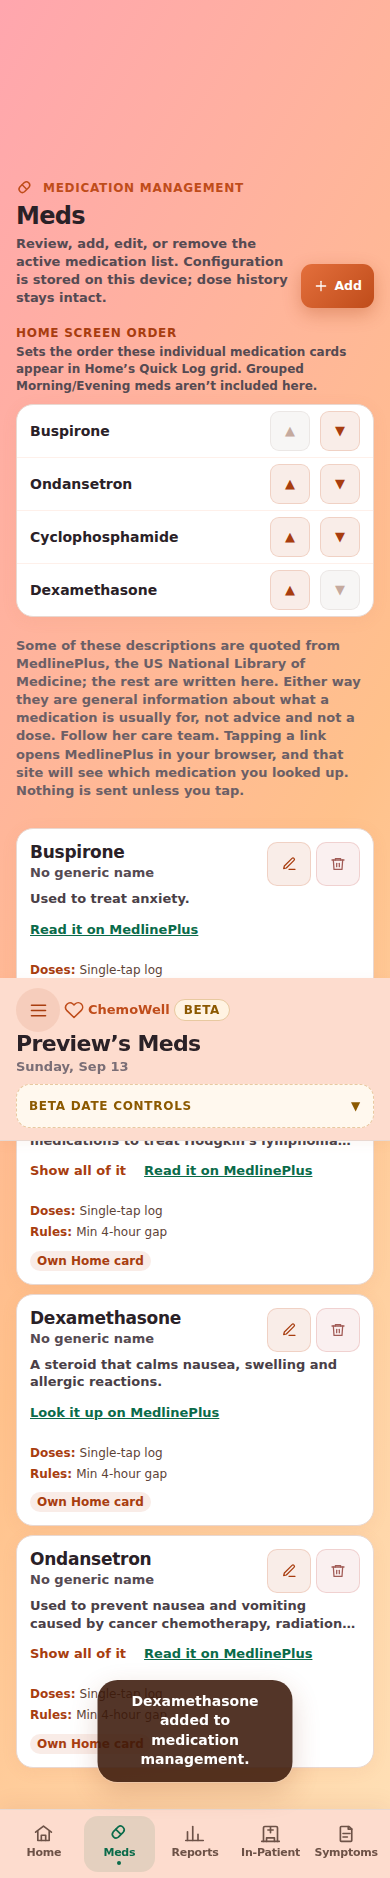
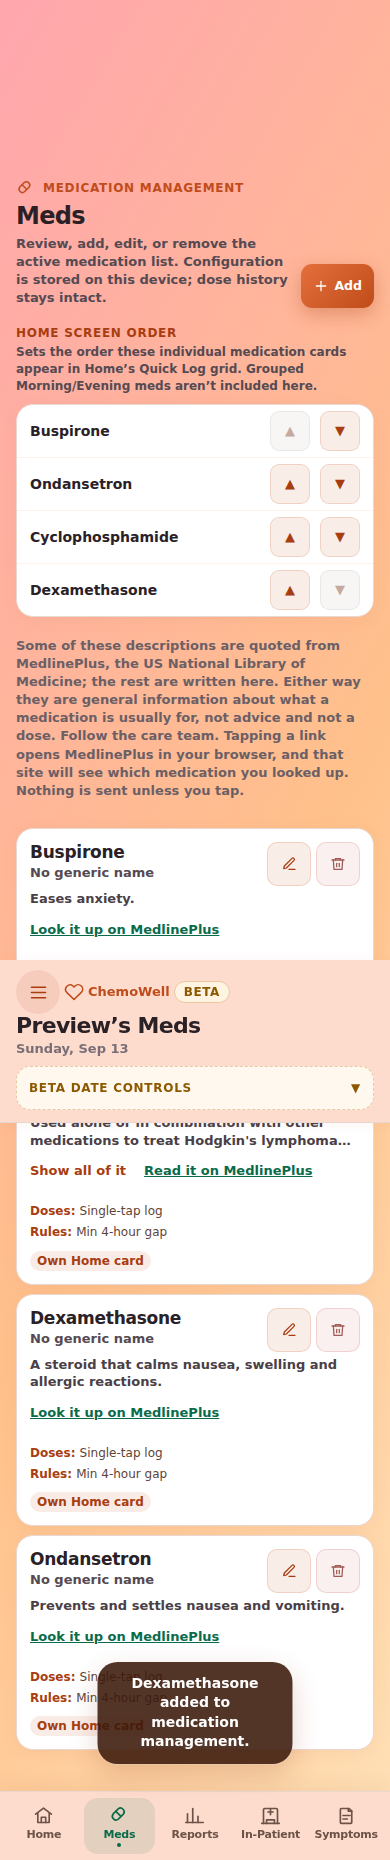
take one specific patient back out of a product every user shares
Aaron, 2026-09-13: "chemowell should not have any data referring back to
Brandi. I read in the med page it also mentioned refer to her team. There
shouldn't be ANY hard coding in this app for Brandi OR medication including
treatment or diagnosis"

He found it on the Meds screen where I had just put it. The medication
disclaimer -- the only place in the app that gives safety guidance about
medication, sitting directly above a list of them -- read "Follow her care
team." care-tracker is one person's app and that is correct there. This is a
product: every user is a different patient, most of them not women, none of
them Brandi. To a man using this app, or a daughter tracking her father's
treatment, that sentence is about somebody else, and the instruction it
carries is the one that has to land.

Two more in the In-Patient FAQ, narrating a hospital stay in the third
person, and three in comments -- the sentences a future session reads before
writing the next screen's copy. They/them rather than "he or she": the
patient is whoever the user set up, and the app has never asked anyone's
gender for this purpose.

AND A HARDCODED DOSE. CONFIG.ceilingMg = 2500 is a daily acetaminophen limit
from one care plan, carried over from the sibling app. Nothing ever read it,
which is the only reason it was harmless -- and "it is unused" is exactly the
argument that keeps such a thing alive until something reads it. A daily
[…]

diff --git a/index.html b/index.html
@@ -1302,7 +1302,11 @@ function persistMedicationConfig(meds, archivedMeds) {
   }
 }
 
-const CONFIG = { patientName: '', ceilingMg: 2500, tempUnit: 'Fahrenheit', weightUnit: 'lbs' };
+// ceilingMg: 2500 was here and is GONE. It is a daily acetaminophen limit from one specific
+// person's care plan, carried over from the sibling app, and nothing in this file ever read it --
+// so it was a named patient's dose ceiling sitting in a product every user shares. A daily limit
+// belongs to the medication the user sets up, which is where medicationCeilingMax reads it from.
+const CONFIG = { patientName: '', tempUnit: 'Fahrenheit', weightUnit: 'lbs' };
 function weightSuffix() { return CONFIG.weightUnit === 'kg' ? 'kg' : 'lbs'; }
 
 // State
@@ -3064,7 +3068,7 @@ const HELP_TOPICS = [
   { id: "sym-medical-question", cat: "symptoms", q: "Side effects — hair loss, sickness, tiredness: is this normal?", a: "**This is a question for the care team, and ChemoWell will not try to answer it.** The app keeps a record of what happened and when. It holds no information about any drug, has no idea what is normal for this person's treatment, and would be guessing if it said otherwise.", steps: ["Write the question down, along with what you have actually seen and when it started.", "Ask the care team, or the pharmacist who dispensed the medication \u2014 they have the person's actual treatment plan in front of them.", "Anything sudden, severe, or frightening is a phone call now, not a question for later.", "Log the symptom here with a note in your own words. Turning up to an appointment with dates and times is worth far more than trying to remember."], note: "ChemoWell is a record-keeping tool, not a source of medical information. Never delay care because of anything shown in this app.", keywords: ["side effect", "side effects", "hair", "hair loss", "sickness", "tiredness", "fatigue", "normal", "expect", "is that normal", "should i worry", "worried", "dangerous", "interact", "interaction", "safe to take", "what does it do"], related: ["sym-severe", "sym-log", "vit-temp-high"], medical: true, careLead: true, careTone: "calm" },
   { id: "sym-bowel-confusion", cat: "symptoms", q: "Should diarrhoea go in Symptoms or the bowel tracker?", a: "Either works, and they're for different things.", steps: ["Use the **Daily check-in** bowel question for the day's overall pattern — normal, very little, none, or diarrhoea.", "Use the **Symptoms** tab for a specific episode with a time and a note.", "The Symptoms list does include diarrhoea and constipation for exactly that reason.", "Both show up in your exported records."], keywords: ["diarrhea", "diarrhoea", "constipation", "bowel", "where"], related: ["vit-checkin-modal", "sym-log"] },
   { id: "ip-start-end", cat: "inpatient", q: "How do I record a hospital stay?", a: "The In-Patient tab at the bottom, with a start and an end.", steps: ["Tap **In-Patient** at the bottom of the screen.", "When the stay begins, tap **Log In-Patient Start**.", "A banner appears on Home showing which day of the stay you're on.", "When the person is discharged, tap **Log In-Patient End** — on that banner or on the In-Patient tab.", "Every past stay is kept in the **In-Patient History** list below."], keywords: ["hospital", "admitted", "in-patient", "stay", "discharged"], related: ["ip-meds-restricted", "ip-forgot-end"] },
-  { id: "ip-meds-restricted", cat: "inpatient", q: "Can I still log medications during a hospital stay?", a: "Yes. Everything stays loggable the whole time a stay is active.", steps: ["Log doses exactly as you normally would — nothing is locked.", "Doses the hospital gave are not counted as missed: any dose window that opened while the stay was running is treated as theirs.", "If she comes home part-way through a day, the windows after that point are yours again and are tracked normally. You do NOT need to end the stay early to log them.", "End the stay when it actually ends, on the **In-Patient** tab."], note: "This used to work the other way round. Medications showed as 'Restricted' and could not be logged at all while a stay was active, and this page told you to end the stay early to unlock them — which meant falsifying when she came home in order to record a dose she really took. Fixed 2026-08-26 after Aaron hit exactly that on a half-day stay.", keywords: ["restricted", "can't log", "hospital", "paused", "greyed", "half day", "discharged"], related: ["ip-start-end", "log-button-locked"], medical: true },
+  { id: "ip-meds-restricted", cat: "inpatient", q: "Can I still log medications during a hospital stay?", a: "Yes. Everything stays loggable the whole time a stay is active.", steps: ["Log doses exactly as you normally would — nothing is locked.", "Doses the hospital gave are not counted as missed: any dose window that opened while the stay was running is treated as theirs.", "If they come home part-way through a day, the windows after that point are yours again and are tracked normally. You do NOT need to end the stay early to log them.", "End the stay when it actually ends, on the **In-Patient** tab."], note: "This used to work the other way round. Medications showed as 'Restricted' and could not be logged at all while a stay was active, and this page told you to end the stay early to unlock them — which meant falsifying when they came home in order to record a dose that was really taken. Fixed 2026-08-26 after Aaron hit exactly that on a half-day stay.", keywords: ["restricted", "can't log", "hospital", "paused", "greyed", "half day", "discharged"], related: ["ip-start-end", "log-button-locked"], medical: true },
   { id: "ip-forgot-end", cat: "inpatient", q: "I forgot to end a hospital stay and it still says Active", a: "End it now — the stay keeps its real start date.", steps: ["Tap **In-Patient** at the bottom.", "Tap **Log In-Patient End**.", "The stay closes and moves into In-Patient History with its length.", "The end time is recorded as now. If the real discharge was earlier, add a note — menu → **Notes** — so the record is accurate."], keywords: ["still active", "forgot", "end", "discharge", "ongoing"], related: ["ip-start-end"] },
   { id: "ip-past-stay", cat: "inpatient", q: "I want to add a hospital stay that already happened", a: "There's a separate control for logging a past stay with both dates.", steps: ["Tap **In-Patient** at the bottom.", "Find the option to log a past stay (Start + End).", "Set the start date and time, then the end date and time.", "Confirm. It appears in In-Patient History."], keywords: ["past stay", "backdate", "previous", "add old"], related: ["ip-start-end"] },
   { id: "ip-undo", cat: "inpatient", q: "I tapped In-Patient Start by mistake", a: "There's an Undo, and it asks twice on purpose.", steps: ["On the **In-Patient** tab, tap the undo option on the active stay.", "It asks you to tap again to confirm.", "Tap it again within a few seconds.", "The entry is removed. Logging is not blocked by a stay — what changes is that dose windows opening during it stop being counted as the hospital's."], keywords: ["undo", "mistake", "accidental", "remove stay"], related: ["ip-start-end"] },
@@ -5569,14 +5573,16 @@ const MED_SOURCE = {
 function purposeSourceLink(med) {
   const name = med ? String(med.name || '').trim() : '';
   if (!name) return null;
-  // app-v75: where the sentence above came from a MedlinePlus page, the link goes to THAT page and
-  // says so. Where it did not, it stays app-v74's search -- honest about being a lookup rather than
-  // a source. The two must never be confused: a citation under text this repo wrote is a lie about
-  // where the words came from.
-  if (purposeIsQuoted(med)) {
-    const official = medSourceFor(med);
-    if (official) return { url: official.u, text: 'Read it on ' + MED_SOURCE.label, quoted: true };
+  // THE CITATION IS FOR THE TEXT ON SCREEN, NOT FOR THE MEDICATION. describeMed returns the page
+  // only when the sentence it chose came FROM that page, so "Read it on MedlinePlus" cannot appear
+  // over a hand-written line or over something the user typed. The first build asked a different
+  // question -- "is there a MedlinePlus entry for this drug?" -- and the audit found it citing the
+  // oxycodone page under the app's own Percocet line, with the acetaminophen warning deleted.
+  const described = describeMed(med);
+  if (described.source) {
+    return { url: described.source.u, text: 'Read it on ' + MED_SOURCE.label, quoted: true };
   }
+  // Otherwise app-v74's honest search: a lookup, not a source.
   return { url: MED_SOURCE.searchUrl(name), text: 'Look it up on ' + MED_SOURCE.label, quoted: false };
 }
 function medPurposeKey(text) {
@@ -5659,24 +5665,39 @@ function purposeLookup(key) {
   const v = MED_PURPOSE[k];
   return typeof v === 'string' ? v : '';
 }
-function purposeOf(med) {
-  if (!med) return '';
-  // WHAT SHE TYPED WINS OVER EVERYTHING, ALWAYS. Her own words about her own medication are never
-  // overwritten by a database, however official it is.
+// ONE FUNCTION DECIDES BOTH THE WORDS AND WHERE THEY CAME FROM, because the alternative is a
+// citation under a sentence that came from somewhere else. The first build of app-v75 had two
+// functions -- one picked the text, another decided whether to print "Read it on MedlinePlus" -- and
+// the audit that blocked the release found several paths where they disagreed.
+function describeMed(med) {
+  if (!med) return { text: '', source: null };
+  // WHAT THE USER TYPED WINS OVER EVERYTHING, ALWAYS. Their own words about their own
+  // medication are never overwritten by a database, however official it is.
   const typed = String(med.purpose || '').trim();
-  if (typed) return typed;
-  // Then MedlinePlus (app-v75), because it is the only text that can honestly carry a citation.
+  if (typed) return { text: typed, source: null };
+  // THEN THIS APP'S OWN LINE, AND THIS ORDER IS THE WHOLE OF THE app-v75 AUDIT BLOCK.
+  // It shipped the other way round for an hour -- MedlinePlus first, because it is the only text
+  // that can carry a citation -- and that solved a citation problem by making the medicine worse.
+  // MedlinePlus answers for a drug's PRIMARY indication, which is very often not the reason a
+  // chemotherapy patient is taking it. Fourteen hand-written lines would have been overridden and
+  // six of them badly. The one that settles it: promethazine's card said "Settles nausea and
+  // vomiting... It causes drowsiness", and MedlinePlus's first sentence is about allergic rhinitis
+  // and itchy eyes. Clamped to two lines on a phone at 2am, with the patient vomiting, that card
+  // reads "her allergy medicine" -- and the sedation warning was gone too. Promethazine is one of
+  // the two drugs most likely to be reached for at that exact moment.
+  // These lines were written for THIS patient on THIS treatment, some of them by name after Aaron
+  // reported the gap. A general reference does not get to overrule them.
+  const own = purposeLookup(med.name) || purposeLookup(med.sub);
+  if (own) return { text: own, source: null };
+  // THEN MEDLINEPLUS, for the drugs this app has never had a line for -- which is the real win here
+  // and is untouched by the above: 19 of the 33 entries are drugs with no hand-written line at all,
+  // most of them the chemotherapy and supportive-care drugs the table never covered.
   const official = medSourceFor(med);
-  if (official) return official.t;
-  return purposeLookup(med.name) || purposeLookup(med.sub);
+  if (official) return { text: official.t, source: official };
+  return { text: '', source: null };
 }
-// Is the line on screen the quoted one? Used to decide whether the link may say "Read it on" (a
-// citation) or must say "Look it up on" (a search). If she typed her own description, MedlinePlus is
-// NOT the source of what she is reading, even where a quoted sentence exists for that drug.
-function purposeIsQuoted(med) {
-  if (!med) return false;
-  if (String(med.purpose || '').trim()) return false;
-  return !!medSourceFor(med);
+function purposeOf(med) {
+  return describeMed(med).text;
 }
 function medicationFormFrom(med) {
   const base = med || {};
@@ -6710,7 +6731,7 @@ function renderMedicationManager(now) {
     // common state, not an edge case -- and a notice about "the line under each medication" printed
     // above a list with no lines in it is the app describing something that is not on the screen.
     sortedMeds.length ? h('div', { 'data-med-disclaimer': 'true', style: { ...TYPE.caption, color: '#6B5F66', lineHeight: '1.4', margin: '2px 0 10px' } },
-      'Some of these descriptions are quoted from ' + MED_SOURCE.label + ', the US National Library of Medicine; the rest are written here. Either way they are general information about what a medication is usually for, not advice and not a dose. Follow her care team. ' + 'Tapping a link opens ' + MED_SOURCE.label + ' in your browser, and that site will see which medication you looked up. Nothing is sent unless you tap.') : null,
+      'Some of these descriptions are quoted from ' + MED_SOURCE.label + ', the US National Library of Medicine; the rest are written here. Either way they are general information about what a medication is usually for, not advice and not a dose. Follow the care team. ' + 'Tapping a link opens ' + MED_SOURCE.label + ' in your browser, and that site will see which medication you looked up. Nothing is sent unless you tap.') : null,
     h('div', { style: { display: 'flex', flexDirection: 'column', gap: '9px' } }, ...cards),
     // ONLY when something has been removed. A heading over an empty list is a notice about
     // nothing -- the defect the v72 audit found in the disclaimer two lines above.
@@ -7564,7 +7585,7 @@ function helpMatch(query) {
 // SEARCH-BOX path, nobody ever measured what that did to a sentence the corpus has no answer for.
 // The Auditor measured it: v55 returned nothing for 49 of 50 clinical questions; v56/v57 return a
 // ranked list for 45 of 50. "she collapsed" ranked "All my medications vanished from Home" first --
-// a genuine keyword hit on `collapsed`, which is why no threshold catches it -- and "she is coughing
+// a genuine keyword hit on `collapsed`, which is why no threshold catches it -- and "they are coughing
 // up blood" returned 66 rows headed by "How do I record blood pressure?".
 //
 // Three separate problems, fixed separately, because conflating them is how the v56 guard went wrong:
@@ -7781,7 +7802,7 @@ function renderHelpView(now) {
   //
   // The Auditor typed real emergencies into this box and watched what a caregiver at 2am would see:
   // "she collapsed" ranks *All my medications vanished from Home* -- a true keyword hit on the word
-  // `collapsed`, so no score threshold anywhere can catch it -- and "she is unresponsive" ranks
+  // `collapsed`, so no score threshold anywhere can catch it -- and "they are unresponsive" ranks
   // *I tap something and nothing happens*. Both still do, deliberately; suppressing them would mean
   // building a classifier that decides which queries are the frightening ones, and that classifier
   // is precisely what failed twice in v56 and got this feature cut.

diff --git a/harness-product-neutral-patch.py b/harness-product-neutral-patch.py
@@ -1,0 +1,84 @@
+#!/usr/bin/env python3
+"""app-v74: take one specific patient back out of a product every user shares.
+
+AARON, 2026-09-13:
+    "chemowell should not have any data referring back to Brandi. I read in the med page it also
+     mentioned refer to her team. There shouldn't be ANY hard coding in this app for Brandi OR
+     medication including treatment or diagnosis"
+
+He is right, and the leak he found was on the Meds screen where I had just put it.
+
+WHAT THIS IS. care-tracker is one person's app -- her name, her medications, her care team, all
+correct there. ChemoWell is a product: every user is a different patient, most of them not women,
+none of them Brandi. The two codebases share ancestry and a lot of prose, and the prose is where the
+first app keeps leaking into the second. This patch takes out what leaked.
+
+THE ONE THAT MATTERED MOST is the medication disclaimer -- the only place in the app that gives
+safety guidance about medication, sitting directly above a list of them. It read "Follow her care
+team." To a man using this app, or a daughter tracking her father's treatment, that sentence is
+about somebody else, and the instruction it carries is the one that must land.
+
+WHY THEY/THEM RATHER THAN "HE OR SHE" OR REWRITING AROUND IT: the patient is whoever the user set
+up. The app has never asked anyone's gender for this purpose and should not start.
+
+AND A HARDCODED DOSE. `CONFIG.ceilingMg = 2500` is a daily acetaminophen limit from one care plan,
+carried over from the sibling app. Nothing in this file ever read it -- which is the only reason it
+was harmless -- but a named patient's dose ceiling has no business sitting in a shared product, and
+"it is unused" is exactly the argument that keeps such a thing alive until something reads it. A
+daily limit belongs to the medication the user sets up, where medicationCeilingMax already finds it.
+
+WHAT IT APPENDS: nothing. WHAT IT DELETES: nothing -- no record, no stored field, no user data. This
+is wording and one dead constant.
+
+Run BEFORE harness-med-database-patch.py. Nothing here touches what that patch anchors on.
+"""
+import sys, pathlib
+
+ROOT = pathlib.Path(__file__).resolve().parent
+HTML = ROOT / 'index.html'
+
+def die(msg):
+    print('PATCH FAILED: ' + msg); sys.exit(1)
+
+src = HTML.read_text(encoding='utf-8')
+
+# Every edit is (old, new, why). Validated as a set BEFORE anything is written, so a drifted anchor
+# cannot leave the file half-neutral -- the same lesson the database patch learned from sw.js.
+EDITS = [
+    # The medication disclaimer. This is the one Aaron read.
+    ("not advice and not a dose. Follow her care team. ",
+     "not advice and not a dose. Follow the care team. ",
+     "the medication disclaimer, directly above the list of medications"),
+    # The In-Patient FAQ, which narrates a hospital stay in the third person.
+    ("If she comes home part-way through a day, the windows after that point are yours again",
+     "If they come home part-way through a day, the windows after that point are yours again",
+     "In-Patient FAQ: coming home mid-day"),
+    ("which meant falsifying when she came home in order to record a dose she really took",
+     "which meant falsifying when they came home in order to record a dose that was really taken",
+     "In-Patient FAQ: the note explaining why the old behaviour was wrong"),
+    # Not user-facing, but a product's source should not assume who the patient is either. These
+    # are the sentences a future session reads before writing the next screen's copy.
+    ('// a genuine keyword hit on `collapsed`, which is why no threshold catches it -- and "she is coughing',
+     '// a genuine keyword hit on `collapsed`, which is why no threshold catches it -- and "they are coughing',
+     "comment in the Help search scoring"),
+    ('// `collapsed`, so no score threshold anywhere can catch it -- and "she is unresponsive" ranks',
+     '// `collapsed`, so no score threshold anywhere can catch it -- and "they are unresponsive" ranks',
+     "comment in the Help search scoring"),
+    ("const CONFIG = { patientName: '', ceilingMg: 2500, tempUnit: 'Fahrenheit', weightUnit: 'lbs' };",
+     "// ceilingMg: 2500 was here and is GONE. It is a daily acetaminophen limit from one specific\n"
+     "// person's care plan, carried over from the sibling app, and nothing in this file ever read it --\n"
+     "// so it was a named patient's dose ceiling sitting in a product every user shares. A daily limit\n"
+     "// belongs to the medication the user sets up, which is where medicationCeilingMax reads it from.\n"
+     "const CONFIG = { patientName: '', tempUnit: 'Fahrenheit', weightUnit: 'lbs' };",
+     "a hardcoded daily milligram ceiling inherited from the other app"),
+]
+
+missing = [why for old, _new, why in EDITS if src.count(old) != 1]
+if missing:
+    die('these anchors are not present exactly once, and nothing was written:\n  - ' + '\n  - '.join(missing))
+
+for old, new, _why in EDITS:
+    src = src.replace(old, new, 1)
+
+HTML.write_text(src, encoding='utf-8')
+print('product-neutral patch applied: %d edits' % len(EDITS))

diff --git a/harness-med-database-patch.py b/harness-med-database-patch.py
@@ -141,8 +141,8 @@ new_purpose = """// ONE FUNCTION DECIDES BOTH THE WORDS AND WHERE THEY CAME FROM
 // the audit that blocked the release found several paths where they disagreed.
 function describeMed(med) {
   if (!med) return { text: '', source: null };
-  // WHAT SHE TYPED WINS OVER EVERYTHING, ALWAYS. Her own words about her own medication are never
-  // overwritten by a database, however official it is.
+  // WHAT THE USER TYPED WINS OVER EVERYTHING, ALWAYS. Their own words about their own
+  // medication are never overwritten by a database, however official it is.
   const typed = String(med.purpose || '').trim();
   if (typed) return { text: typed, source: null };
   // THEN THIS APP'S OWN LINE, AND THIS ORDER IS THE WHOLE OF THE app-v75 AUDIT BLOCK.
@@ -184,7 +184,7 @@ new_link = """function purposeSourceLink(med) {
   if (!name) return null;
   // THE CITATION IS FOR THE TEXT ON SCREEN, NOT FOR THE MEDICATION. describeMed returns the page
   // only when the sentence it chose came FROM that page, so "Read it on MedlinePlus" cannot appear
-  // over a hand-written line or over something she typed. The first build asked a different
+  // over a hand-written line or over something the user typed. The first build asked a different
   // question -- "is there a MedlinePlus entry for this drug?" -- and the audit found it citing the
   // oxycodone page under the app's own Percocet line, with the acetaminophen warning deleted.
   const described = describeMed(med);
@@ -315,15 +315,18 @@ k = src.index(close_marker, close_after) + len(close_marker)
 src = src[:k] + "      " + NEW_BLOCK.lstrip() + ",\n" + src[k:]
 
 # --- 5. the disclaimer must now be true -----------------------------------------------------------
+# ANCHORS ON THE NEUTRAL WORDING, because harness-product-neutral-patch.py runs first and has
+# already taken "her" out of it. Run in the other order this dies rather than half-applying, which
+# is the point: the two patches are one release and the order is not optional.
 old_disc = ("'These descriptions are written here \\u2014 general information about what a medication is usually "
-            "for, not advice and not a dose. Follow her care team. ' + 'Tapping \\u201cLook it up\\u201d opens ' + "
+            "for, not advice and not a dose. Follow the care team. ' + 'Tapping \\u201cLook it up\\u201d opens ' + "
             "MED_SOURCE.label + ' in your browser, and that site will see which medication you looked up. "
             "Nothing is sent unless you tap.'")
 if src.count(old_disc) != 1:
     die('the disclaimer is not where it was -- refusing to leave a false one on screen')
 new_disc = ("'Some of these descriptions are quoted from ' + MED_SOURCE.label + ', the US National Library of "
             "Medicine; the rest are written here. Either way they are general information about what a "
-            "medication is usually for, not advice and not a dose. Follow her care team. ' + 'Tapping a link "
+            "medication is usually for, not advice and not a dose. Follow the care team. ' + 'Tapping a link "
             "opens ' + MED_SOURCE.label + ' in your browser, and that site will see which medication you looked "
             "up. Nothing is sent unless you tap.'")
 src = src.replace(old_disc, new_disc, 1)
